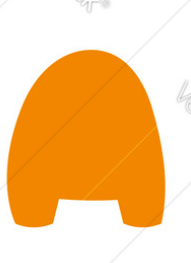
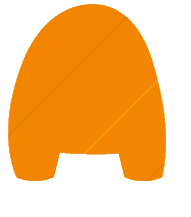
silhouette

Changed region(s): [[0.0262, 0.0, 0.8901, 0.8848], [0.9162, 0.3041, 1.0, 0.4424]]

diff --git a/src/CharacterDesign.js b/src/CharacterDesign.js
@@ -6,21 +6,14 @@ export class CharacterDesign extends HTMLElement {
 
     this.NUMBER_OF_IMAGES_HEAD = parseInt(this.getAttribute('number-of-images-head'))
     this.NUMBER_OF_IMAGES_BODY = parseInt(this.getAttribute('number-of-images-body'))
-
-    console.log("constructor called");
+    this.head = parseInt(this.getAttribute('selected-head'))
+    this.body = parseInt(this.getAttribute('selected-body'))
+    this.silhouette = 1;
     this.myDOM = this.attachShadow({ mode: "open" });
-   
-    console.log('Initial head set by attribute is ' + this.head)
-    this.body = 1;
-    render(this.template, this.myDOM);
+    this.renderME();
   }
 
   connectedCallback() {
-    this.head = this.getAttribute('selected-head');
-    this.imagewidthhead = this.getAttribute('image-width-head')
-    this.imagewidthbody = this.getAttribute('image-width-body')
-
-    this.showSelectedMask();
   }
 
   renderME() {
@@ -32,10 +25,10 @@ export class CharacterDesign extends HTMLElement {
 
         <style>
            :root {
-             font-size: 3vmin;
              box-sizing: border-box;
            }
 
+   
             .displayVertical {
               display: flex;
               flex-direction: column;
@@ -43,11 +36,12 @@ export class CharacterDesign extends HTMLElement {
 
             .CharacterCustomizeMain {
               display: grid;
-              grid-template-columns: [eyes-start mouth-start] 1fr [eyes-end mouth-end];
-              grid-template-rows: [eyes-start] 20fr [eyes-end mouth-start] 20fr [mouth-end] 60fr;
-              background: url(./images/silhouette/silhouette1.png) no-repeat center;
-              background-size: contain;
+              grid-template-columns: [eyes-start mouth-start silhouette-start] 1fr [ silhouette-end eyes-end mouth-end];
+              grid-template-rows: [eyes-start] 30fr [eyes-end mouth-start] 20fr [mouth-end silhouette-start] 50fr [silhouette-end];
+              background: url('./images/silhouette/silhouette${this.silhouette}.png') no-repeat center;
+              background-size: 70%;
               border: 2px solid black;
+              border-radius: 10%;
               width: 95vmin;
               height: 95vmin;
             }
@@ -60,8 +54,9 @@ export class CharacterDesign extends HTMLElement {
 
             .head, .body {
                 display: flex;
-                align-items: center;
-                object-fit: cover;
+                justify-content: space-between;
+                align-items:center;
+                height: 100%;
             }
 
             .character {
@@ -77,13 +72,24 @@ export class CharacterDesign extends HTMLElement {
             .headselector {
               grid-area: mouth;
             } 
-          
 
-            .headselector, .bodyselector {
-                display:flex;
-                justify-content: space-around;
+            .silhouette {
+              display:flex;
+              grid-area: silhouette;
+              height: 20vmin;
+              width: 90vmin;
+              align-self: end;
+              justify-content: space-around;
             }
 
+            .silhouettePicker {
+              object-fit: contain;
+              height: 100%;
+              opacity: 0.2;
+            }
+          
+
+           
             button {
                 cursor: pointer;
                 border-radius: 0.1rem;      
@@ -94,37 +100,33 @@ export class CharacterDesign extends HTMLElement {
             }
 
             .LeftArrow {
-              z-index:1;
-              margin-right: 1rem;
-                width: 2rem;
-                height: 2rem;
-                background: url(/images/arrows/previous.png) no-repeat center;
-                background-size: contain;
-                transition: all 0.2s ease-in-out;
-
+              margin-left: 3vmin;
+              background: url(/images/arrows/previous.png) no-repeat center;
+              background-size: contain;
            }
 
+        
           div.LeftArrow:hover {
-              transition: all 0.2s ease-in-out;
               transform: scale(1.1);
               cursor: pointer;
             }
 
             div.RightArrow:hover {
-              transition: all 0.2s ease-in-out;
               transform: scale(1.1);
               cursor: pointer;
             }
 
+            .RightArrow, .LeftArrow {
+              width: 13vmin;
+              height: 13vmin;
+              transition: all 0.2s ease-in-out;
+            }
+            .ArrowDisabled {
+              opacity: 0.4;
+          }
 
             .RightArrow {
-              z-index:1;
-              width: 2rem;
-              margin-left: 1rem;
-                height: 2rem;
-              transition: all 0.2s ease-in-out;
-                width: 30px;
-                height: 30px;
+              margin-right: 3vmin;
                 background: url(/images/arrows/next.png) no-repeat center;
                 background-size: contain;
            }
@@ -153,59 +155,76 @@ export class CharacterDesign extends HTMLElement {
 
             <div class="CharacterCustomizeMain">
 
-            <div class="bodyselector">
-                <div class='body'> 
+                <div class="bodyselector">
+                    <div class='body'> 
 
-                    <div class="LeftArrow" style="width:3rem" on-click='${() => this.moveBodyLeft()}'></div>
+                        <div id="ArrowBodyLeft" class="LeftArrow"  on-click='${() => this.moveBodyLeft()}'></div>
 
-                    <div class="overlay">
-                      <div style="width:5rem;overflow: hidden"> 
-                          <img id="body" style="width:100%;"
-                          src="./images/eyes/alleyes.png" style="border: 1px solid black"> 
-                      </div>
+                          <div style="width:20vmin"> 
+                              <img id="body" style="width:100%;"
+                              src="./images/eyes/eyes${this.body}.png" style="border: 1px solid black"> 
+                          </div>
+
+                        <div id="ArrowBodyRight" class="RightArrow" on-click='${() => this.moveBodyRight()}'> </div>
+
                     </div>
-
-                    <div class="RightArrow" on-click='${() => this.moveBodyRight()}'> </div>
-
                 </div>
+
+                <div class='headselector'>
+                    <div class='head'>
+
+                        <div id='ArrowHeadLeft' class="LeftArrow" on-click='${() => {
+                          this.moveHeadLeft();
+                        }}'>
+
+                        </div>
+                    
+                        <div style="width:35vmin"> 
+                            <img id="mask" width="100%"
+                            src="./images/mouths/mouth${this.head}.png"> 
+                        </div>
+
+                        <div id='ArrowHeadRight'  class="RightArrow" on-click='${() => this.moveHeadRight()}'>
+                        </div>
+
+                    </div>
+                </div>    
+
+                
+              <div class='silhouette'>
+                        <img class="silhouettePicker" on-click='${() => this.PickSilhouetee(1)}'   src="./images/silhouette/silhouette1.png">
+                        <img class="silhouettePicker" on-click='${() => this.PickSilhouetee(2)}'   src="./images/silhouette/silhouette2.png">
+                        <img class="silhouettePicker" on-click='${() => this.PickSilhouetee(3)}'   src="./images/silhouette/silhouette3.png">
+                        <img class="silhouettePicker" on-click='${() => this.PickSilhouetee(4)}'  src="./images/silhouette/silhouette4.png">
+              </div> 
+
             </div>
 
-            <div class='headselector'>
-                <div class='head'>
+  
 
-                    <div class="LeftArrow" on-click='${() => {
-                      this.moveHeadLeft();
-                    }}'>
-
-                    </div>
-                
-                    <div class="overlay">
-                        <div style="width:100px;overflow: hidden"> 
-                            <img id="mask" width="350rem" height=50rem 
-                            src="./images/mouths/allmouths.png"> 
-                        </div>
-                    </div>
-
-                    <div class="RightArrow" on-click='${() => this.moveHeadRight()}'>
-                    </div>
-
-                </div>
-            </div>    
-                
-            <div class='legs'></div>
-
-            </div> 
+           
         `;
   }
 
+  PickSilhouetee(item) {
+    this.silhouette = item;
+    this.renderME();
+  }
+
   moveHeadLeft() {
-    if (this.head >= 1) {
+    if (this.head > 1) {
 
       this.head--;
-      let to = this.head * (-1 * parseInt(this.imagewidthhead))
-      let from = (this.head + 1) * (-1 * parseInt(this.imagewidthhead))
-      console.log(to);
-      this.AnimateMask(from, to);
+
+      this.shadowRoot.querySelector('#ArrowHeadRight').classList.remove('ArrowDisabled')
+
+      if(this.head === 1) {
+        this.shadowRoot.querySelector('#ArrowHeadLeft').classList.add('ArrowDisabled')
+      }
+      // let to = this.head * (-1 * parseInt(this.imagewidthhead))
+      // let from = (this.head + 1) * (-1 * parseInt(this.imagewidthhead))
+      // console.log(to);
+      // this.AnimateMask(from, to);
       this.renderME();
     }
   }
@@ -241,25 +260,39 @@ export class CharacterDesign extends HTMLElement {
   }
 
   moveHeadRight() {
-    if (this.head < this.NUMBER_OF_IMAGES_HEAD - 1) {
+    if (this.head < this.NUMBER_OF_IMAGES_HEAD) {
       this.head++;
-      let to = this.head * (-1 * parseInt(this.imagewidthhead));
-      let from = (this.head - 1) * (-1 * parseInt(this.imagewidthhead));
-      console.log(to);
-      this.AnimateMask(from, to);
+      
+      this.shadowRoot.querySelector('#ArrowHeadLeft').classList.remove('ArrowDisabled')
+
+      if(this.head === this.NUMBER_OF_IMAGES_HEAD) {
+        this.shadowRoot.querySelector('#ArrowHeadRight').classList.add('ArrowDisabled')
+      }
+
+      // let to = this.head * (-1 * parseInt(this.imagewidthhead));
+      // let from = (this.head - 1) * (-1 * parseInt(this.imagewidthhead));
+      // console.log(to);
+      // this.AnimateMask(from, to);
       this.renderME();
     }
   }
 
   moveBodyLeft() {
     if (this.body > 0) {
-      if (this.body >= 1) {
+      if (this.body > 1) {
 
         this.body--;
-        let to = this.body * (-1 * parseInt(this.imagewidthbody))
-        let from = (this.body + 1) * (-1 * parseInt(this.imagewidthbody))
-        console.log(to);
-        this.AnimateBody(from, to);
+
+        this.shadowRoot.querySelector('#ArrowBodyRight').classList.remove('ArrowDisabled')
+
+        if(this.body === 1) {
+          this.shadowRoot.querySelector('#ArrowBodyLeft').classList.add('ArrowDisabled')
+        }
+
+        // let to = this.body * (-1 * parseInt(this.imagewidthbody))
+        // let from = (this.body + 1) * (-1 * parseInt(this.imagewidthbody))
+        // console.log(to);
+        // this.AnimateBody(from, to);
         this.renderME();
       }
     }
@@ -268,10 +301,16 @@ export class CharacterDesign extends HTMLElement {
   moveBodyRight() {
     if (this.body < this.NUMBER_OF_IMAGES_BODY) {
         this.body++;
-        let to = this.body * (-1 * parseInt(this.imagewidthbody))
-        let from = (this.body - 1) * (-1 * parseInt(this.imagewidthbody))
-        console.log(to);
-        this.AnimateBody(from, to);
+
+        this.shadowRoot.querySelector('#ArrowBodyLeft').classList.remove('ArrowDisabled')
+
+        if(this.body === this.NUMBER_OF_IMAGES_BODY) {
+          this.shadowRoot.querySelector('#ArrowBodyRight').classList.add('ArrowDisabled')
+        }
+        // let to = this.body * (-1 * parseInt(this.imagewidthbody))
+        // let from = (this.body - 1) * (-1 * parseInt(this.imagewidthbody))
+        // console.log(to);
+        // this.AnimateBody(from, to);
         this.renderME();
     }
   }

diff --git a/index.html b/index.html
@@ -10,11 +10,10 @@
     
     <script type='module' src="./src/CharacterDesign.js"></script>
     <character-design 
-    selected-head="3" 
+    selected-head="1"
+    selected-body="1" 
     number-of-images-head="4"
-    number-of-images-body="8"
-    image-width-head="75px"
-    image-width-body="70px">
+    number-of-images-body="3">
     </character-design>
 
 </body>
